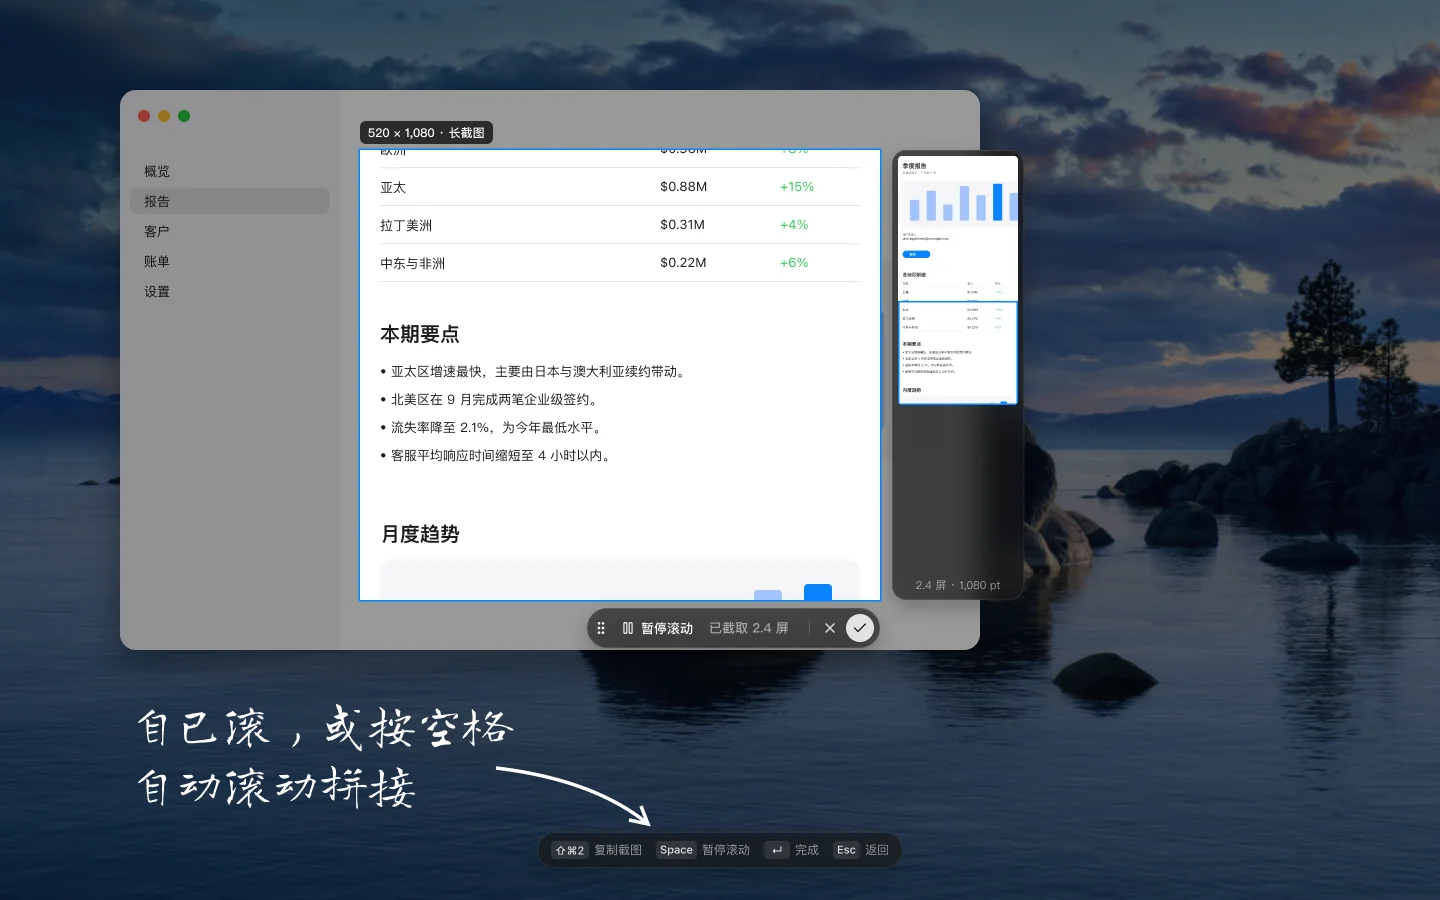
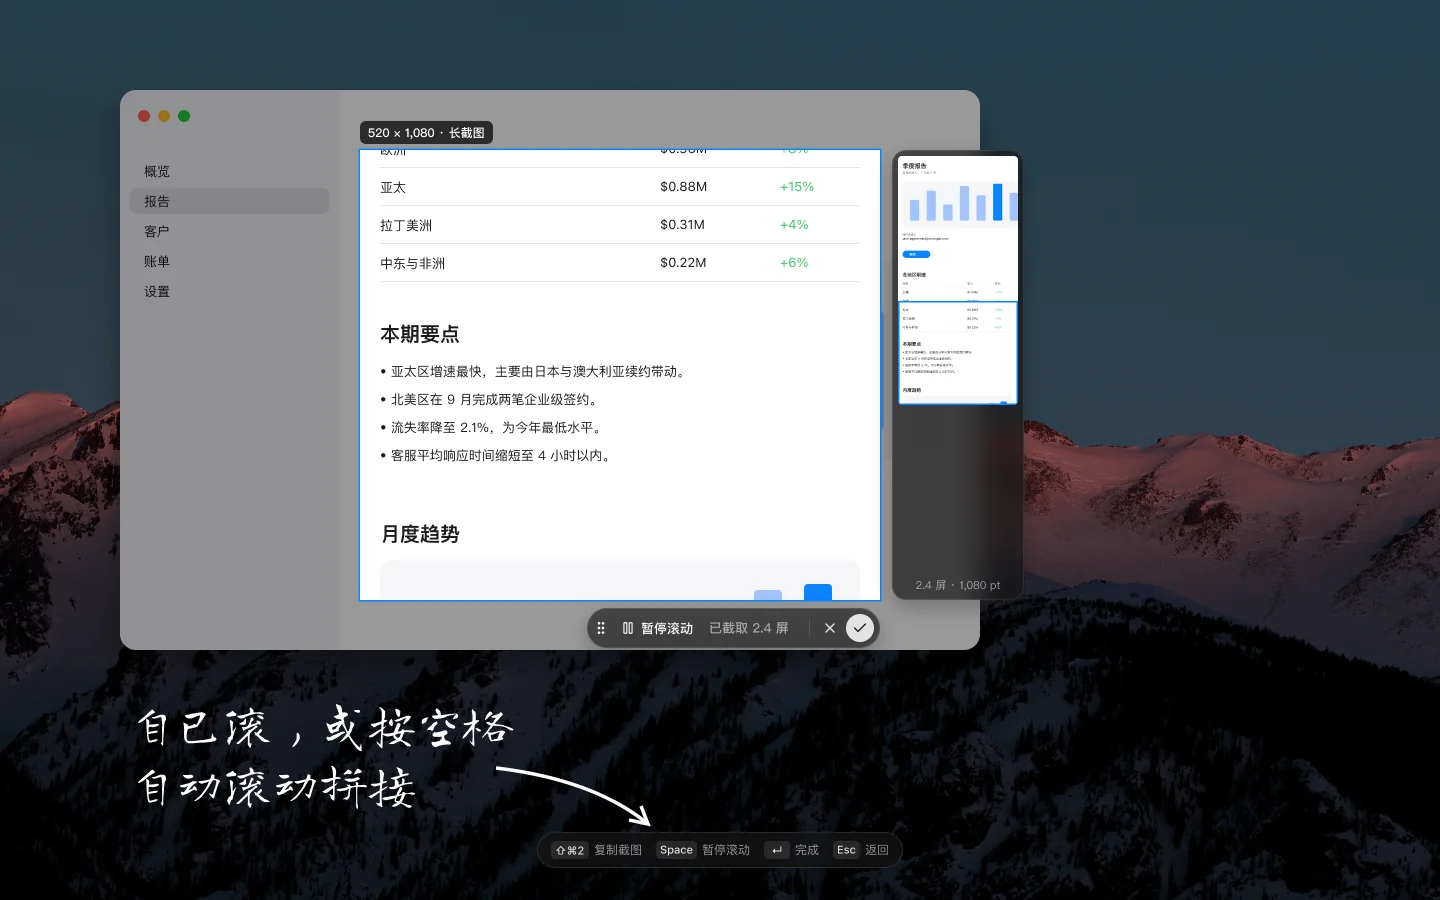
docs(website): switch 0.11.0 blog scenes to CC0 mountain backdrop
- Replace the 0.11.0 scene backdrop across all 8 bilingual WebP exports with Nathan Anderson's CC0 1.0 Public Domain mountain ridge photograph and reposition handwritten callouts above the sunlit crest.
- Align localized alt descriptions in the English and Chinese 0.11.0 posts and record the CC0 image provenance in apps/website/README.md.

diff --git a/apps/website/README.md b/apps/website/README.md
@@ -172,8 +172,9 @@ The 0.11.0 images are in `project/4171:512653`, in the
 `W · Website · Blog · 0.11.0 images (2026-11-12)` section (`4171:512654`–`4171:512661`). The four
 scenes cover screen recording review and questions, scrolling long screenshots, running commands on
 screenshot text, and Markdown in floating result cards, with Chinese and English editions side by
-side over the Tahoe Beach Dusk backdrop and handwritten notes, exported at 1440 × 900 (1x) as WebP
-at quality 85.
+side over Nathan Anderson's _Red sunset on a mountain_ backdrop
+([Wikimedia Commons](<https://commons.wikimedia.org/wiki/File:Red_sunset_on_a_mountain_(Unsplash).jpg>),
+CC0 1.0 Public Domain) and handwritten notes, exported at 1440 × 900 (1x) as WebP at quality 85.
 
 ### Design
 
